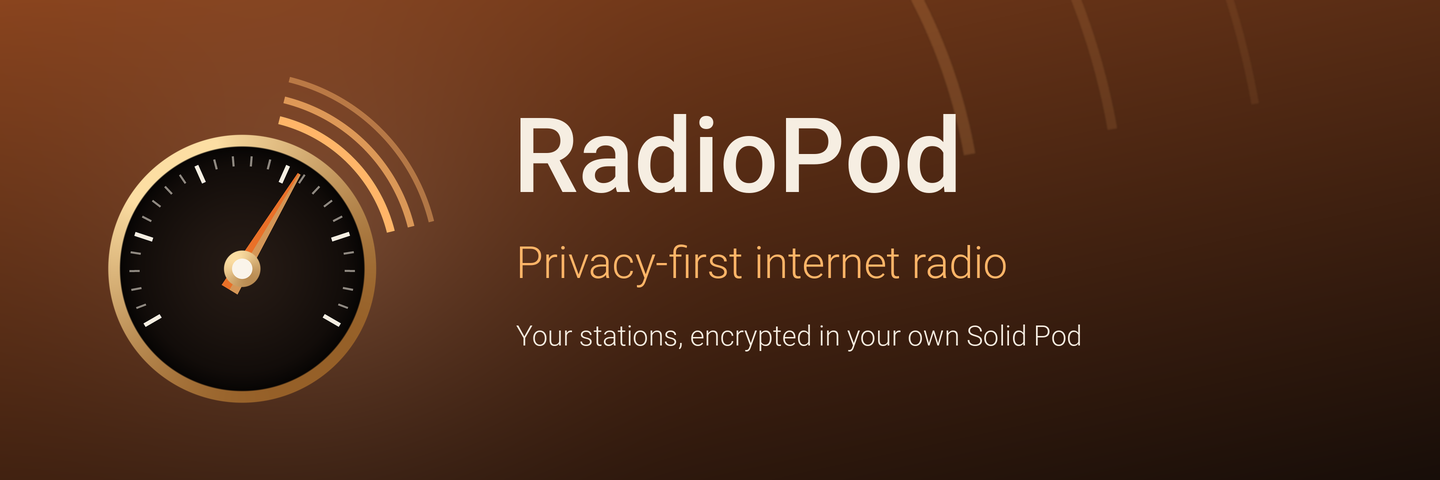
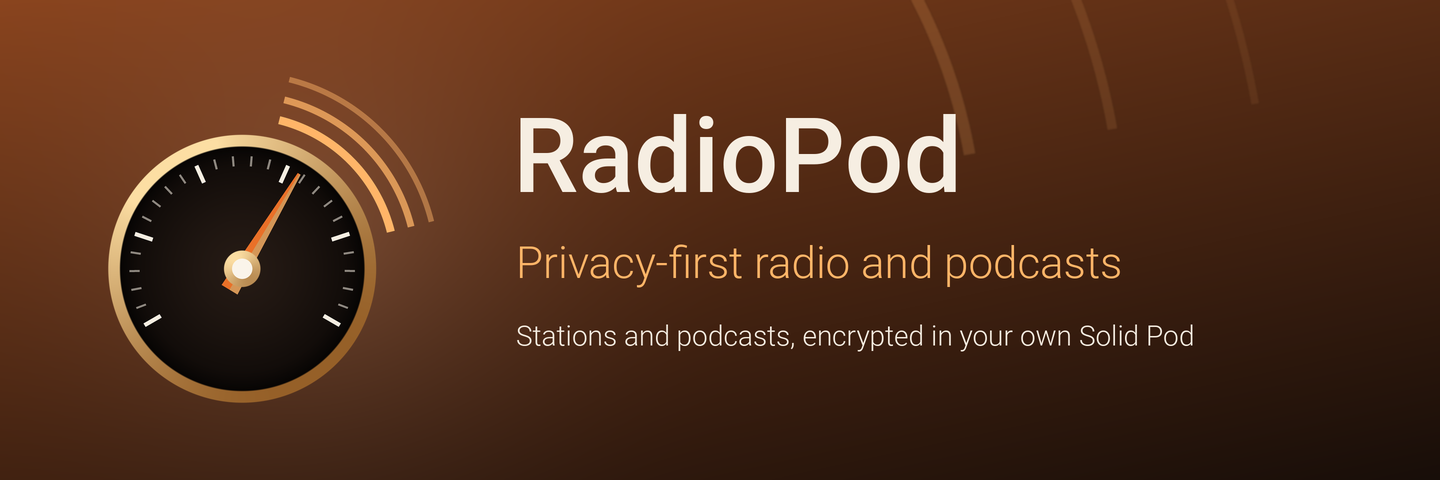
Update snap info to include podcasts

Changed region(s): [[0.5312, 0.5312, 0.7812, 0.5938], [0.3438, 0.6875, 0.8438, 0.7188]]

diff --git a/support/make_banner.py b/support/make_banner.py
@@ -83,13 +83,14 @@ TITLE = 'RadioPod'
 
 # Leads with privacy rather than with what the app plays, matching the snap
 # summary. "player" is dropped from that wording: it adds nothing after
-# "radio" and the line has to sit within the banner.
+# "radio" and the line has to sit within the banner. 20261018 gjw Podcasts
+# added, as in the summary; "internet" dropped to fit Play's 1024px.
 
-TAGLINE = 'Privacy-first internet radio'
+TAGLINE = 'Privacy-first radio and podcasts'
 
 # How, in one line, under the claim above.
 
-THIRD = 'Your stations, encrypted in your own Solid Pod'
+THIRD = 'Stations and podcasts, encrypted in your own Solid Pod'
 
 MAX_BYTES = 2 * 1024 * 1024
 
